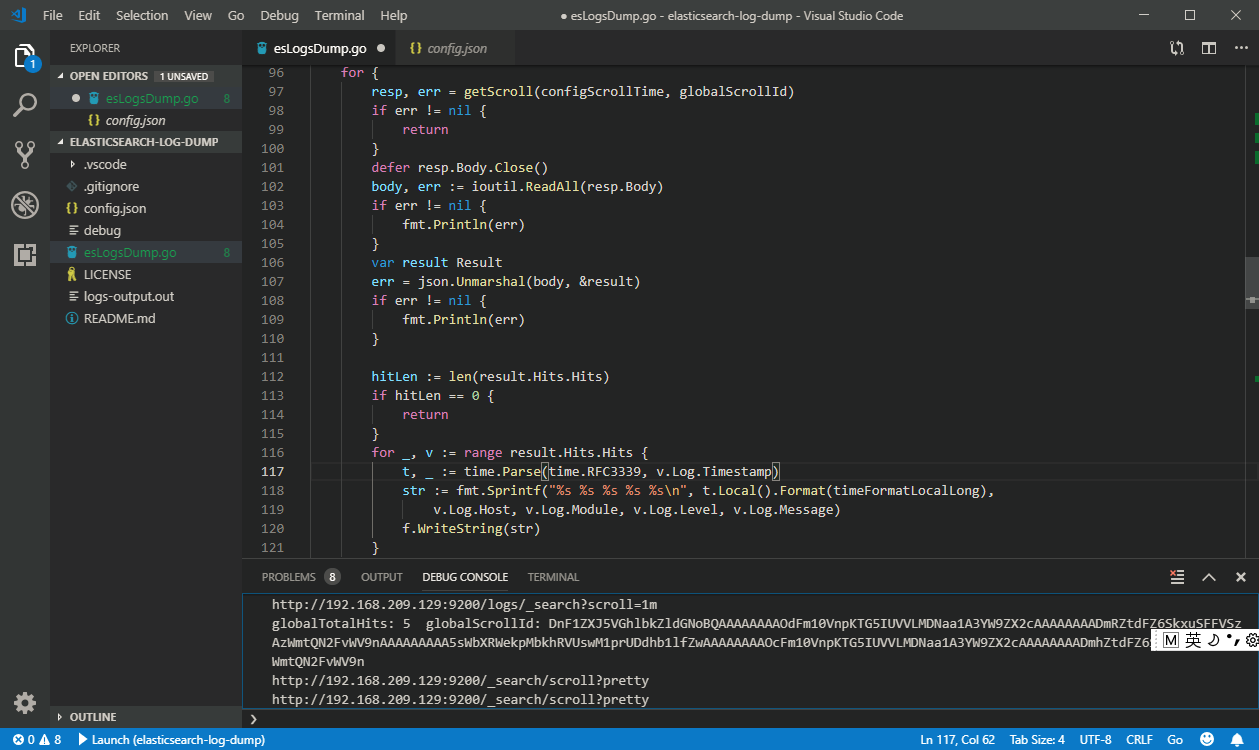
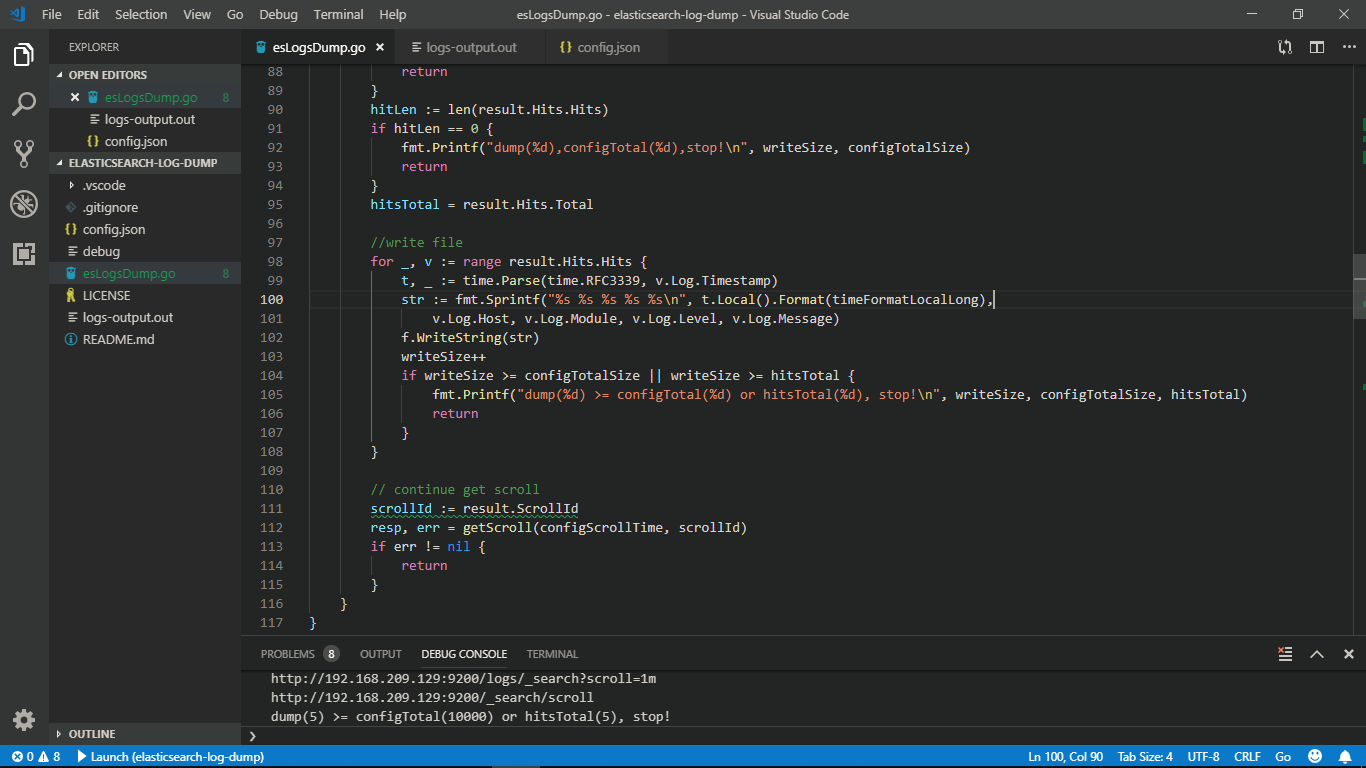
elasticsearch scroll search and dump logs

diff --git a/ES/Scroll/esLogsDump.go b/ES/Scroll/esLogsDump.go
@@ -12,8 +12,9 @@ import (
 )
 
 // from config.json
-var configSearchURL string
-var configSize int
+var configSearchAddr string
+var configPageSize int
+var configTotalSize int
 var configScrollTime string
 var configOutputFileName string
 var configOutputDirectory string
@@ -30,10 +31,6 @@ type Config struct {
 	Key   string `json:"Key"`
 	Value string `json:"Value"`
 }
-
-// from es
-var globalTotalHits int
-var globalScrollId string
 
 type Log struct {
 	Timestamp string `json:"@timestamp"`
@@ -54,6 +51,11 @@ type Result struct {
 }
 
 func main() {
+	var result Result
+	writeSize := 0
+	hitsTotal := 0
+
+	// config
 	err := getConfig()
 	if err != nil {
 		fmt.Println(configOutputFileName, err)
@@ -67,58 +69,49 @@ func main() {
 	defer f.Close()
 
 	// create scroll
-	resp, err := createScroll(configScrollTime, strconv.Itoa(configSize))
+	resp, err := createScroll(configScrollTime, strconv.Itoa(configPageSize))
 	if err != nil {
 		return
 	}
-	defer resp.Body.Close()
-	body, err := ioutil.ReadAll(resp.Body)
-	if err != nil {
-		fmt.Println(err)
-	}
-	var result Result
-	err = json.Unmarshal(body, &result)
-	if err != nil {
-		fmt.Println(err)
-	}
-	for _, v := range result.Hits.Hits {
-		t, _ := time.Parse(time.RFC3339, v.Log.Timestamp)
-		str := fmt.Sprintf("%s %s %s %s %s\n", t.Local().Format(timeFormatLocalLong),
-			v.Log.Host, v.Log.Module, v.Log.Level, v.Log.Message)
-		f.WriteString(str)
-	}
 
-	globalTotalHits = result.Hits.Total
-	globalScrollId = result.ScrollId
-	fmt.Println("globalTotalHits:", globalTotalHits, " globalScrollId:", globalScrollId)
-
-	// get scroll
 	for {
-		resp, err = getScroll(configScrollTime, globalScrollId)
-		if err != nil {
-			return
-		}
+		// parse
 		defer resp.Body.Close()
 		body, err := ioutil.ReadAll(resp.Body)
 		if err != nil {
 			fmt.Println(err)
+			return
 		}
-		var result Result
 		err = json.Unmarshal(body, &result)
 		if err != nil {
 			fmt.Println(err)
-		}
-
-		hitLen := len(result.Hits.Hits)
-		if hitLen == 0 {
 			return
 		}
+		hitLen := len(result.Hits.Hits)
+		if hitLen == 0 {
+			fmt.Printf("dump(%d),configTotal(%d),stop!\n", writeSize, configTotalSize)
+			return
+		}
+		hitsTotal = result.Hits.Total
+
 		//write file
 		for _, v := range result.Hits.Hits {
 			t, _ := time.Parse(time.RFC3339, v.Log.Timestamp)
 			str := fmt.Sprintf("%s %s %s %s %s\n", t.Local().Format(timeFormatLocalLong),
 				v.Log.Host, v.Log.Module, v.Log.Level, v.Log.Message)
 			f.WriteString(str)
+			writeSize++
+			if writeSize >= configTotalSize || writeSize >= hitsTotal {
+				fmt.Printf("dump(%d) >= configTotal(%d) or hitsTotal(%d), stop!\n", writeSize, configTotalSize, hitsTotal)
+				return
+			}
+		}
+
+		// continue get scroll
+		scrollId := result.ScrollId
+		resp, err = getScroll(configScrollTime, scrollId)
+		if err != nil {
+			return
 		}
 	}
 }
@@ -126,7 +119,7 @@ func main() {
 /*
 curl '192.168.209.129:9200/logs/_search?pretty&scroll=1m' -H 'Content-Type: application/json' -d '{"size": 2}'
 <- {
[1 lines of base64/hex data omitted]
+  "_scroll_id" : "DnF1......FvWV9n",
   "hits" : {
     "total" : 5,
     "max_score" : 1.0,
@@ -134,10 +127,10 @@ curl '192.168.209.129:9200/logs/_search?pretty&scroll=1m' -H 'Content-Type: appl
   }
 }
 */
-func createScroll(scrollTime, size string) (resp *http.Response, err error) {
-	doc := fmt.Sprintf(`{"size":%s}`, size)
+func createScroll(scrollTime, pageSize string) (resp *http.Response, err error) {
+	doc := fmt.Sprintf(`{"size":%s}`, pageSize)
 	client := http.Client{}
-	url := fmt.Sprintf("%s/logs/_search?scroll=%s", configSearchURL, scrollTime)
+	url := fmt.Sprintf("%s/logs/_search?scroll=%s", configSearchAddr, scrollTime)
 	request, _ := http.NewRequest("GET", url, strings.NewReader(doc))
 	request.Header.Set("Content-Type", "application/json")
 	resp, err = client.Do(request)
@@ -151,14 +144,13 @@ func createScroll(scrollTime, size string) (resp *http.Response, err error) {
 
 /*
 curl '192.168.209.129:9200/_search/scroll?pretty' -H 'Content-Type: application/json' -d '
[1 lines of base64/hex data omitted]
+{"scroll":"1m","scroll_id": "DnF1......FvWV9n"}'
 */
-
 func getScroll(scrollTime, scrollId string) (resp *http.Response, err error) {
 
 	doc := fmt.Sprintf(`{"scroll":"%s","scroll_id":"%s"}`, scrollTime, scrollId)
 	client := http.Client{}
-	url := fmt.Sprintf("%s/_search/scroll?pretty", configSearchURL)
+	url := fmt.Sprintf("%s/_search/scroll", configSearchAddr)
 	request, _ := http.NewRequest("GET", url, strings.NewReader(doc))
 	request.Header.Set("Content-Type", "application/json")
 	resp, err = client.Do(request)
@@ -170,7 +162,23 @@ func getScroll(scrollTime, scrollId string) (resp *http.Response, err error) {
 	return
 }
 
+/*
+config.json
+{
+"Configuration": [
+        {"Key": "SearchURL","Value":"http://192.168.209.129:9200"},
+        {"Key": "TotalSize","Value": "10000"},
+        {"Key": "PageSize","Value": "2"},
+        {"Key": "ScrollTime","Value": "1m"},
+        {"Key": "OutputFileName","Value":"logs-output.out"},
+        {"Key": "OutputDirectory","Value":""}
+    ]
+}
+*/
 func getConfig() (err error) {
+	// init the config array
+	var configs Configuration
+
 	jsonFile, err := os.Open("config.json")
 	if err != nil {
 		return
@@ -182,8 +190,6 @@ func getConfig() (err error) {
 	if err != nil {
 		return
 	}
-	// init the config array
-	var configs Configuration
 
 	// unmarshal the byteArray into the configuration object
 	err = json.Unmarshal(byteValue, &configs)
@@ -196,20 +202,27 @@ func getConfig() (err error) {
 		var iter = configs.Configs[i]
 
 		switch strings.ToLower(iter.Key) {
-		case "searchurl":
-			configSearchURL = iter.Value
+		case "searchaddr":
+			configSearchAddr = iter.Value
 		case "outputfilename":
 			configOutputFileName = iter.Value
 		case "outputdirectory":
 			configOutputDirectory = iter.Value
 		case "scrolltime":
 			configScrollTime = iter.Value
-		case "size":
+		case "pagesize":
 			temp, convErr := strconv.Atoi(iter.Value)
 			if convErr != nil {
-				fmt.Println("Size invalid, expected an integer, actual value: " + iter.Value)
+				fmt.Println("PageSize invalid, expected an integer, actual value: " + iter.Value)
 			} else {
-				configSize = temp
+				configPageSize = temp
+			}
+		case "totalsize":
+			temp, convErr := strconv.Atoi(iter.Value)
+			if convErr != nil {
+				fmt.Println("TotalSize invalid, expected an integer, actual value: " + iter.Value)
+			} else {
+				configTotalSize = temp
 			}
 		default:
 			fmt.Println(iter.Key + " is not a tracked key")
